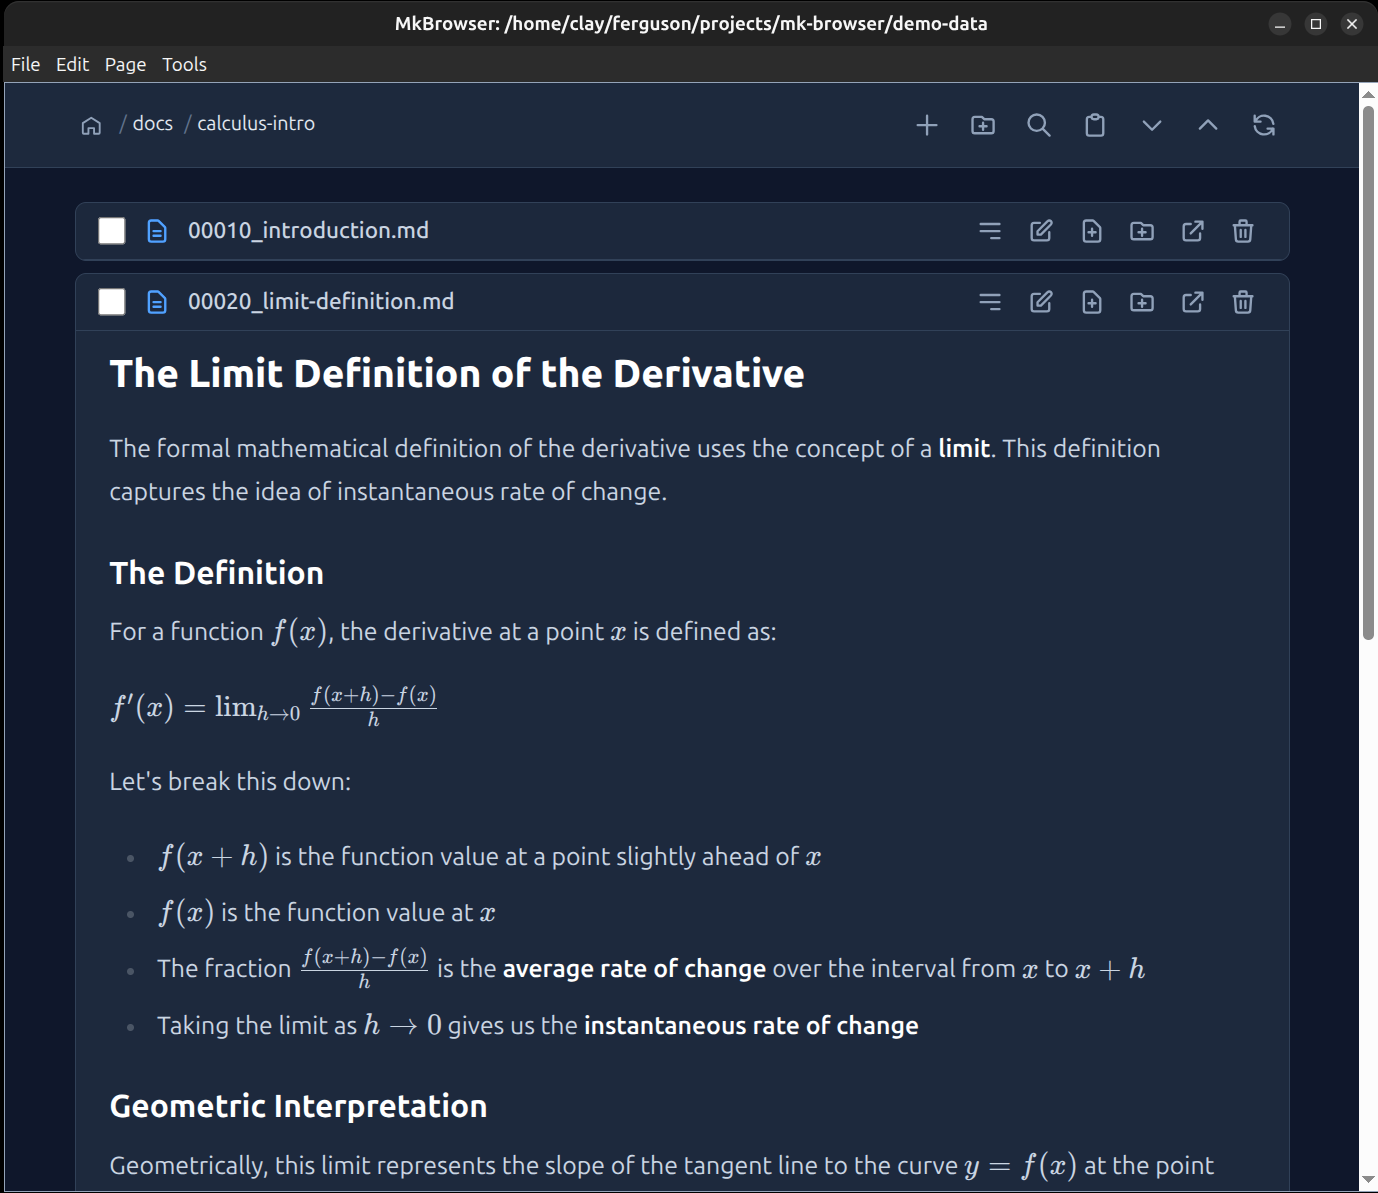
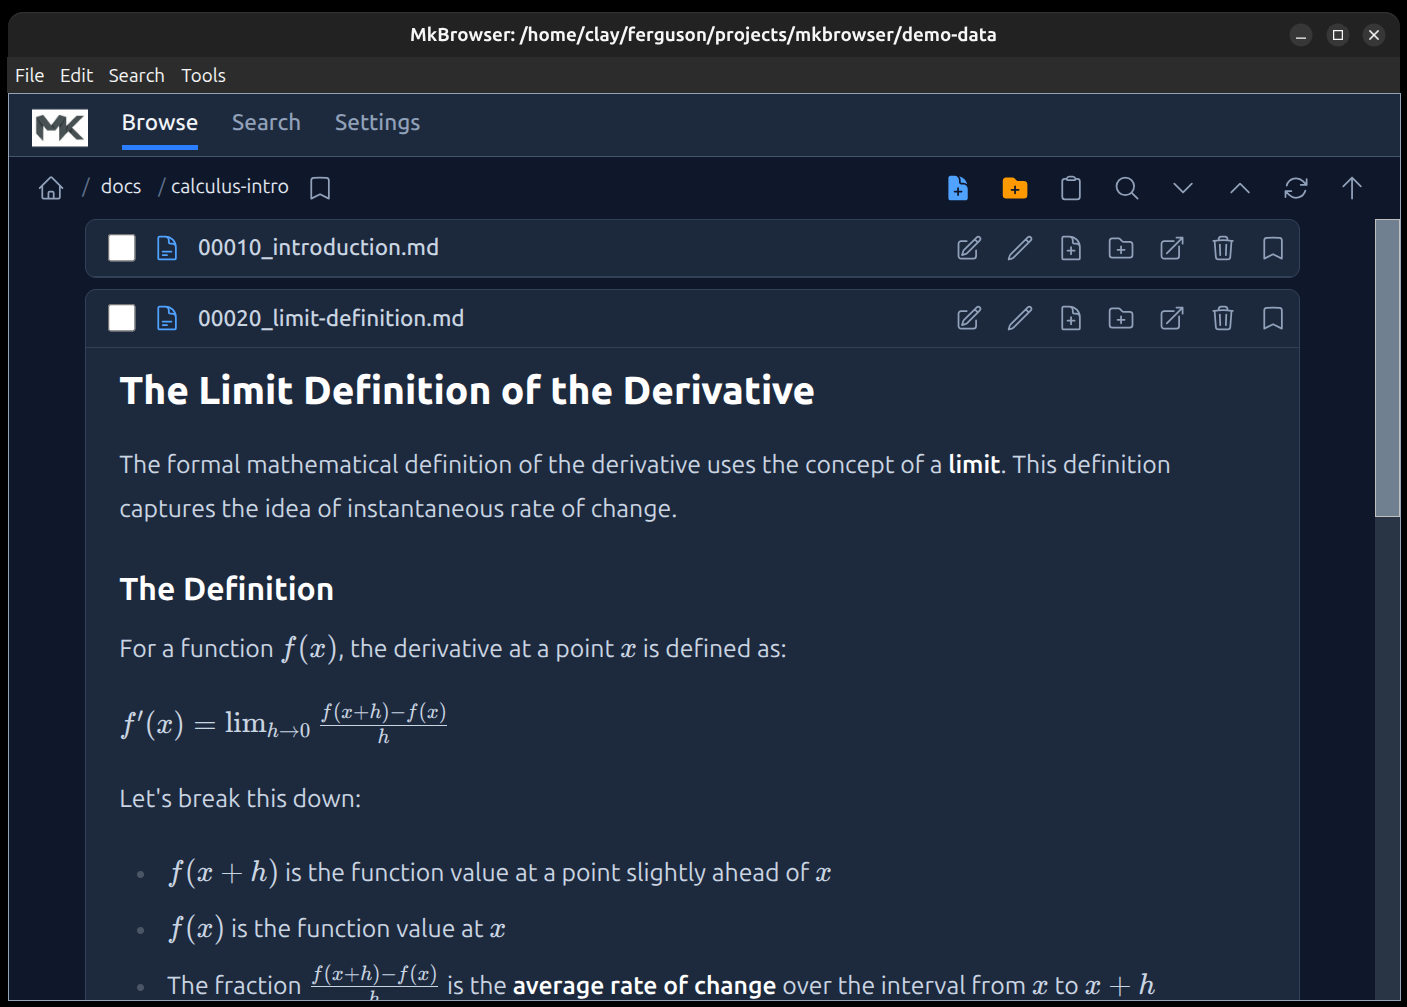
updated screenshots

diff --git a/README.md b/README.md
@@ -27,6 +27,10 @@ This README is aimed at developers; a separate [User Guide](docs/USER_GUIDE.md) 
 
 ![expanded-file](docs/img/expanded-file.png)
 
+![expanded-file](docs/img/editing-file.png)
+
+![expanded-file](docs/img/searching.png)
+
 ![export-dialog](docs/img/export-dialog.png)
 
 ![settings-page](docs/img/settings-page.png)
